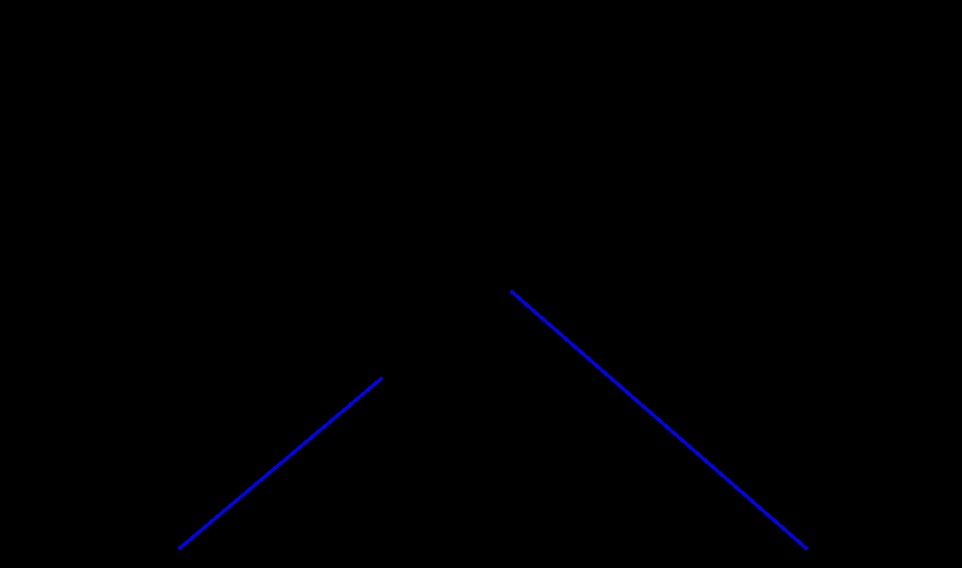
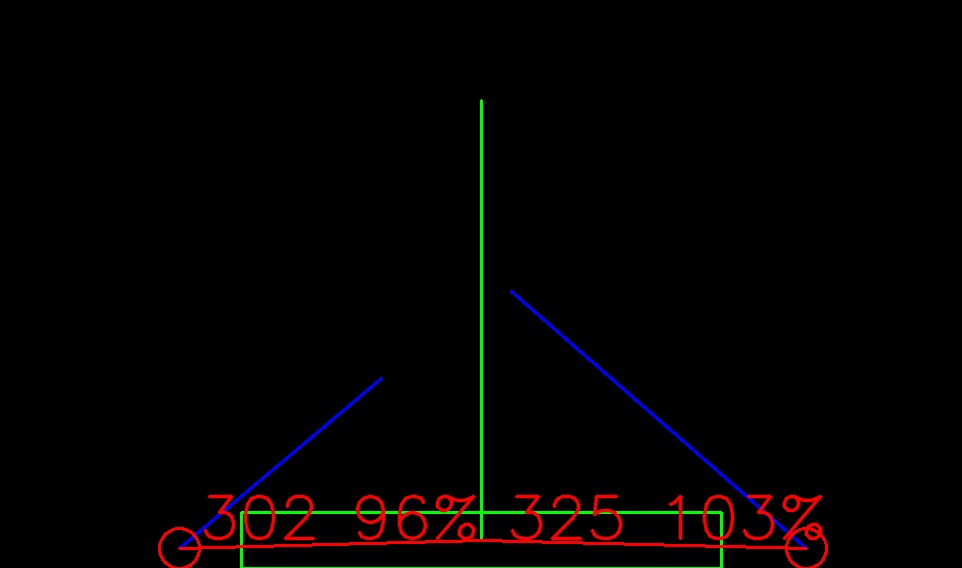
calculate derivation from center

Changed region(s): [[0.1559, 0.1796, 0.8732, 1.0]]

diff --git a/test.py b/test.py
@@ -111,6 +111,62 @@ def averageLines(lines):
 			newList.insert(len(newList), lines[i])
 		i+=1
 	return newList
+def getCarMargins(image):
+	#width in procent
+	width = 50
+	height = 10
+	imgShape=image.shape
+	return [(imgShape[1]/2 - (imgShape[1] * width /100 / 2),imgShape[0]), (imgShape[1]/2 + (imgShape[1] * width /100 / 2),imgShape[0]-(imgShape[0] * 10/100))]
+def drawCarDirection(image, margins):
+	#width in procent
+	width = 50
+	imgShape=image.shape
+	cv2.rectangle(image, margins[0], margins[1], [0,255,0], 2)
+def getOrientation(image, lines, margins):
+	center = [(margins[0][0] + margins[1][0]) / 2, (margins[0][1] + margins[1][1]) / 2]
+	laneEnd = []	
+
+	if (1 < len(lines)):
+		i = 0
+		while (2 > i):
+			closePoint = lines[i][0]
+			secondPoint = copy.copy(lines[i][0])
+			print closePoint, secondPoint, closePoint
+			if (distancePoint(closePoint[0], closePoint[1], center[0], center[1]) < distancePoint(secondPoint[2], secondPoint[3], center[0], center[1])):
+				closePoint[0] = secondPoint[2]
+				closePoint[1] = secondPoint[3]
+				closePoint[2] = secondPoint[0]
+				closePoint[3] = secondPoint[1]
+			i = i + 1
+
+			print closePoint
+			cv2.circle(image, (closePoint[0], closePoint[1]), 20,[0,0,255], 2)
+			laneEnd.insert(len(laneEnd), [closePoint[0], closePoint[1]])
+		print laneEnd
+
+	cv2.line(image, (center[0], center[1]), (center[0], 100), [0,255,0], 2)
+	laneLocLeft = laneEnd[0]
+	laneLocRight = laneEnd[1]
+	if (laneLocLeft[0] > laneLocRight[0]):
+		laneLocRight = laneLocLeft
+		laneLocLeft = laneEnd[1]
+	print "lane left=",laneLocLeft," lane right=", laneLocRight
+	
+	distanceLeftLaneCenter = center[0] - laneLocLeft[0]
+	distanceRightLaneCenter = laneLocRight[0] - center[0]
+	distanceMedium = (distanceLeftLaneCenter + distanceRightLaneCenter) / 2
+	distanceLeftLaneProcent = (distanceLeftLaneCenter * 100) / distanceMedium
+	distanceRightLaneProcent = (distanceRightLaneCenter * 100) / distanceMedium
+
+	print "Left procent=", distanceLeftLaneProcent, "Right procent=", distanceRightLaneProcent
+
+	cv2.line(image, (laneLocLeft[0], laneLocLeft[1]), (center[0], center[1]),[0,0,255],2)
+	cv2.putText(image, str(distanceLeftLaneCenter)+" "+str(distanceLeftLaneProcent)+"%", (laneLocLeft[0] + 20,laneLocLeft[1]-10), 0, 2, [0,0,255],2,cv2.LINE_AA)
+	
+	cv2.line(image, (laneLocRight[0], laneLocRight[1]), (center[0], center[1]),[0,0,255],2)
+	cv2.putText(image, str(distanceRightLaneCenter) + " "+ str(distanceRightLaneProcent)+"%", (laneLocRight[0] - 300,laneLocRight[1]-10), 0, 2, [0,0,255],2,cv2.LINE_AA)
+
+	print distanceMedium
 
 image = cv2.imread("org.jpg")
 gray=cv2.cvtColor(image, cv2.COLOR_RGB2GRAY)
@@ -168,6 +224,10 @@ print "result"
 print "before ",lines
 print "after ",averageLines
 
+margins = getCarMargins(line_image_avg)
+drawCarDirection(line_image_avg, margins)
+print 'get orientation'
+getOrientation(line_image_avg, averageLines, margins)
 
 
 result = weighted_img(line_image, image, a=0.8, b=1., g=0.)
